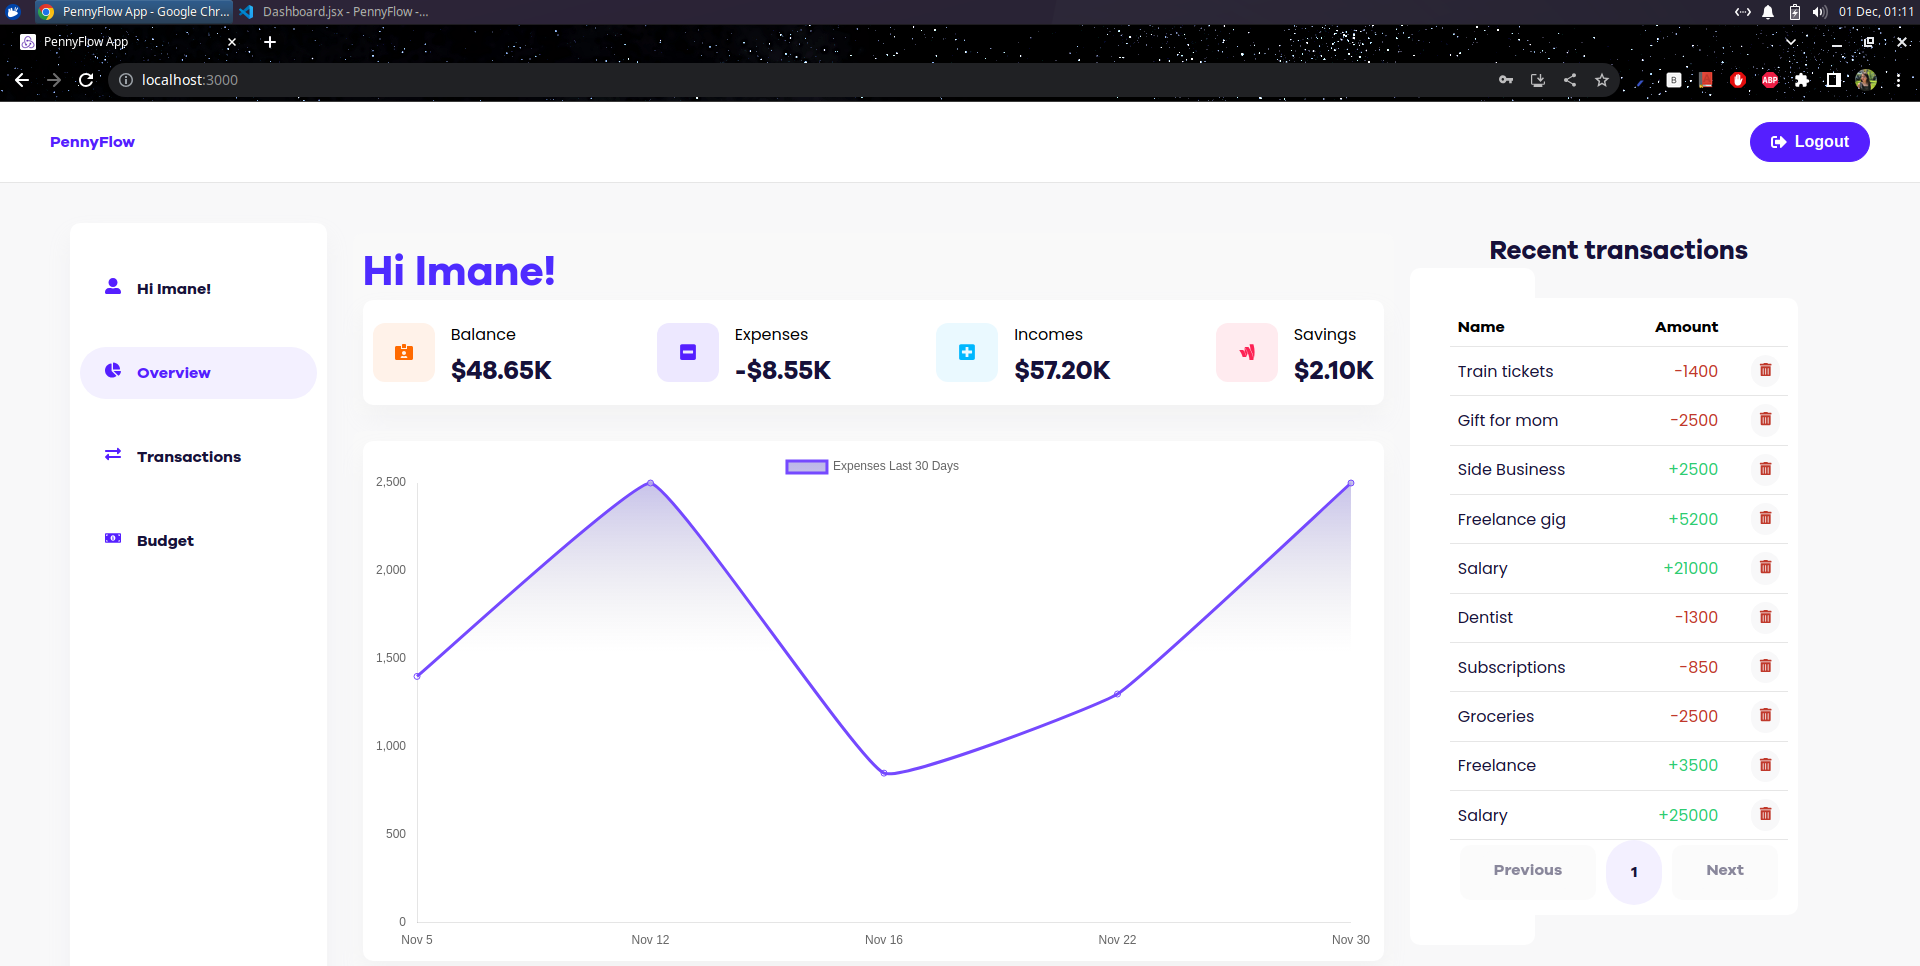
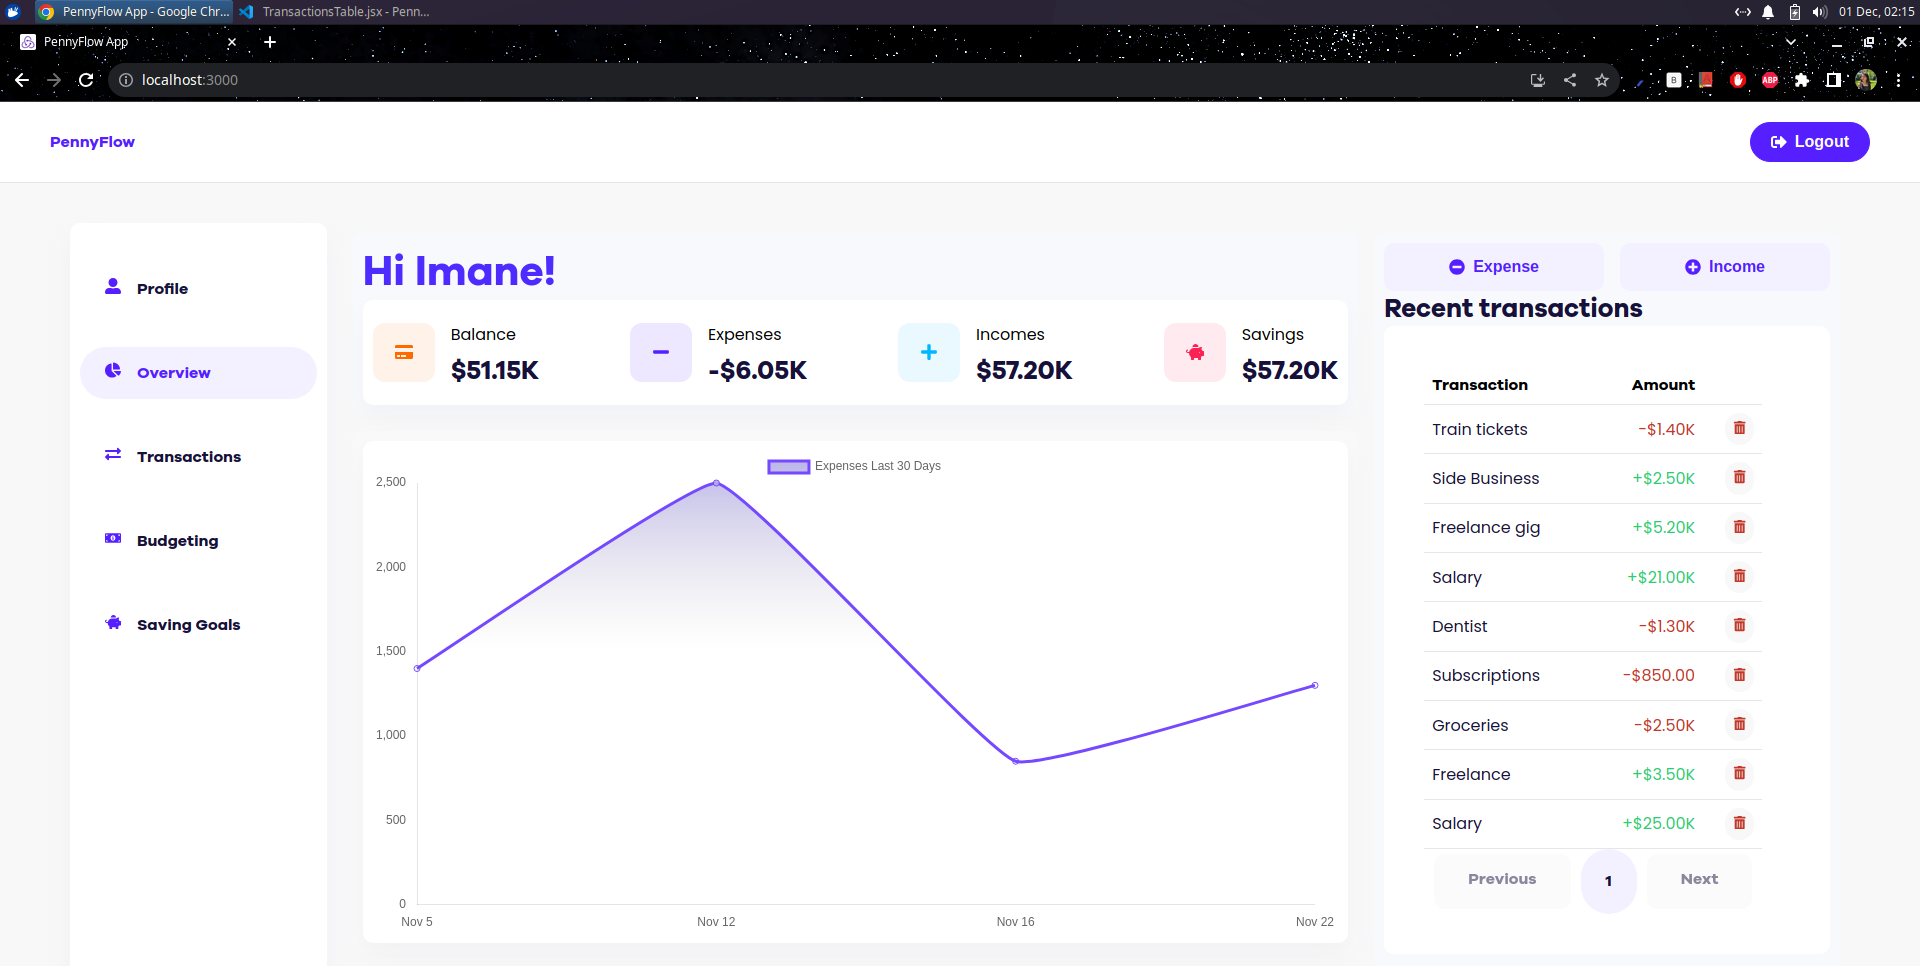
Update UI

diff --git a/frontend/src/pages/Dashboard.jsx b/frontend/src/pages/Dashboard.jsx
@@ -9,8 +9,9 @@ import Sidebar from '../components/Sidebar'
 import ExpenseChart from '../components/ExpenseChart'
 import CategoriesDonut from '../components/CategoriesDonut'
 import TransactionsTable from '../components/TransactionsTable'
-import { FaPlusSquare, FaMinusSquare, FaGoogleWallet, FaIdCardAlt } from 'react-icons/fa'
-
+import { FaPlus, FaMinus, FaPiggyBank, FaCreditCard } from 'react-icons/fa'
+import ExpenseForm from '../components/ExpenseForm'
+import IncomeForm from '../components/IncomeForm'
 
 function Dashboard() {
   const navigate = useNavigate()
@@ -57,7 +58,7 @@ function Dashboard() {
           <h4>Hi {user && user.name}!</h4>
           <div className="summary">
             <div className="balance-data">
-              <div className="icon"><FaIdCardAlt/></div>
+              <div className="icon"><FaCreditCard/></div>
               <div className='data'>
                 <p>Balance</p> 
                 <h5>{useTotalBalance()}</h5>
@@ -65,7 +66,7 @@ function Dashboard() {
             </div>
 
             <div className="expenses-data">
-              <div className="icon"><FaMinusSquare/></div>
+              <div className="icon"><FaMinus/></div>
               <div className="data">
                 <p>Expenses</p>
                 <h5>{Intl.NumberFormat('en-US', { style: 'currency', currency: 'USD', notation: 'compact', minimumFractionDigits: 2 }).format(useTotalExpenses())}</h5>
@@ -73,7 +74,7 @@ function Dashboard() {
             </div>
 
             <div className="incomes-data">
-              <div className="icon"><FaPlusSquare/></div>
+              <div className="icon"><FaPlus/></div>
               <div className="data">
                 <p>Incomes</p> 
                 <h5>{Intl.NumberFormat('en-US', { style: 'currency', currency: 'USD', notation: 'compact', minimumFractionDigits: 2 }).format(useTotalIncomes())}</h5>
@@ -81,10 +82,10 @@ function Dashboard() {
             </div>
 
             <div className="savings-data">
-              <div className="icon"><FaGoogleWallet/></div>
+              <div className="icon"><FaPiggyBank/></div>
               <div className="data">
                 <p>Savings</p> 
-                <h5>{Intl.NumberFormat('en-US', { style: 'currency', currency: 'USD', notation: 'compact', minimumFractionDigits: 2 }).format(2100)}</h5>
+                <h5>{Intl.NumberFormat('en-US', { style: 'currency', currency: 'USD', notation: 'compact', minimumFractionDigits: 2 }).format(useTotalIncomes())}</h5>
               </div>
             </div>
           </div>
@@ -104,6 +105,10 @@ function Dashboard() {
       </div>
 
       <div className='history-container'>
+        <div className="special-btn-section">
+          <div className="expense-btn"><ExpenseForm/></div>
+          <div className="income-btn"><IncomeForm/></div>
+        </div>
         <h5>Recent transactions</h5>
         <div className="history">
           <div className="table"><TransactionsTable/></div>

diff --git a/frontend/src/components/TransactionsTable.jsx b/frontend/src/components/TransactionsTable.jsx
@@ -30,7 +30,7 @@ function TransactionsTable() {
         return (
           <tr key={transaction._id}>
             <td>{transaction.name}</td>
-            <td className="minus amount-column">{transaction.amount}</td>
+            <td className="minus amount-column">{Intl.NumberFormat('en-US', { style: 'currency', currency: 'USD', notation: 'compact', minimumFractionDigits: 2 }).format(transaction.amount)}</td>
             <td className='close-column'>
               <button className='close' expense={transaction} onClick={() => dispatch(deleteExpense(transaction._id))}>
               <FaTrashAlt/>
@@ -42,7 +42,7 @@ function TransactionsTable() {
         return (
           <tr key={transaction._id}>
             <td>{transaction.name}</td>
-            <td  className="plus amount-column">+{transaction.amount}</td>
+            <td  className="plus amount-column">+{Intl.NumberFormat('en-US', { style: 'currency', currency: 'USD', notation: 'compact', minimumFractionDigits: 2 }).format(transaction.amount)}</td>
             <td className='close-column'>
               <button className='close' income={transaction} onClick={() => dispatch(deleteIncome(transaction._id))}>
               <FaTrashAlt/>
@@ -64,7 +64,7 @@ function TransactionsTable() {
           <table>
             <thead>
               <tr>
-                <th>Name</th>
+                <th>Transaction</th>
                 <th>Amount</th>
                 <th></th>
               </tr>

diff --git a/frontend/src/components/Sidebar.jsx b/frontend/src/components/Sidebar.jsx
@@ -1,4 +1,4 @@
-import { FaChartPie, FaExchangeAlt, FaMoneyBillAlt, FaUserAlt } from "react-icons/fa"
+import { FaChartPie, FaExchangeAlt, FaMoneyBillAlt, FaUserAlt, FaPiggyBank } from "react-icons/fa"
 import { useSelector } from "react-redux"
 import { useLocation } from "react-router-dom";
 
@@ -15,7 +15,7 @@ function Sidebar() {
     <div className="sidebar">
         <a href='/account' className={`sidebar-element user ${isActive('/account')}`}>
           <i className='accent'><FaUserAlt/></i>
-          Hi {user && user.name}!
+          Profile
         </a>
         <a href='/' className={`sidebar-element ${isActive('/')}`}>
           <i className='accent'><FaChartPie/></i>
@@ -27,7 +27,11 @@ function Sidebar() {
         </a>
         <a href='/budgets' className={`sidebar-element ${isActive('/budgets')}`}>
           <i className='accent'><FaMoneyBillAlt/></i>
-          Budget
+          Budgeting
+        </a>
+        <a href='/budegts' className={`sidebar-element ${isActive('/budgets')}`}>
+          <i className='accent'><FaPiggyBank/></i>
+          Saving Goals
         </a>
     </div>
   )

diff --git a/frontend/src/index.css b/frontend/src/index.css
@@ -395,7 +395,6 @@ p.date {
 }
 
 .history {
-  width: 30%;
   background-color: #fff ;
   border-radius: 10px;
   padding: 10px;
@@ -403,11 +402,14 @@ p.date {
 }
 
 .history-container {
-  
+  background-color: #F8F9FC;
+  border-radius: 10px;
+  padding: 10px;
+  text-align: left;
 }
 
 .summary-container {
-  background-color: #f9f9f9 ;
+  background-color: #F8F9FC ;
   border-radius: 10px;
   padding: 10px;
   text-align: left;
@@ -625,3 +627,23 @@ h4 {
 background-clip: text;
 }
 
+.special-btn-section {
+  display: flex;
+  flex-direction: row;
+  justify-content: center;
+  gap: 1rem;
+}
+
+
+.special-btn {
+  color: #551FFF;
+  background-color: #F3F0FF;
+  padding: 15px 65px;
+  border-radius: 10px;
+  text-align: center;
+  flex-grow: 1;
+  flex-shrink: 1;
+  min-width: 100%;
+  border: none;
+
+}

diff --git a/frontend/src/components/ExpenseForm.jsx b/frontend/src/components/ExpenseForm.jsx
@@ -134,7 +134,7 @@ function ExpenseForm() {
                     </div>
                 </form>
             </Modal>
-            <button className='btn' onClick={toggleExpenseModal}>
+            <button className='btn special-btn' onClick={toggleExpenseModal}>
                 <FaMinusCircle />Expense
             </button>
     </section>

diff --git a/frontend/src/components/IncomeForm.jsx b/frontend/src/components/IncomeForm.jsx
@@ -102,7 +102,7 @@ function IncomeForm() {
                     </div>
                 </form>
             </Modal>
-            <button className='btn' onClick={toggleIncomeModal}>
+            <button className='btn special-btn' onClick={toggleIncomeModal}>
                 <FaPlusCircle />Income
             </button>
     </section>
